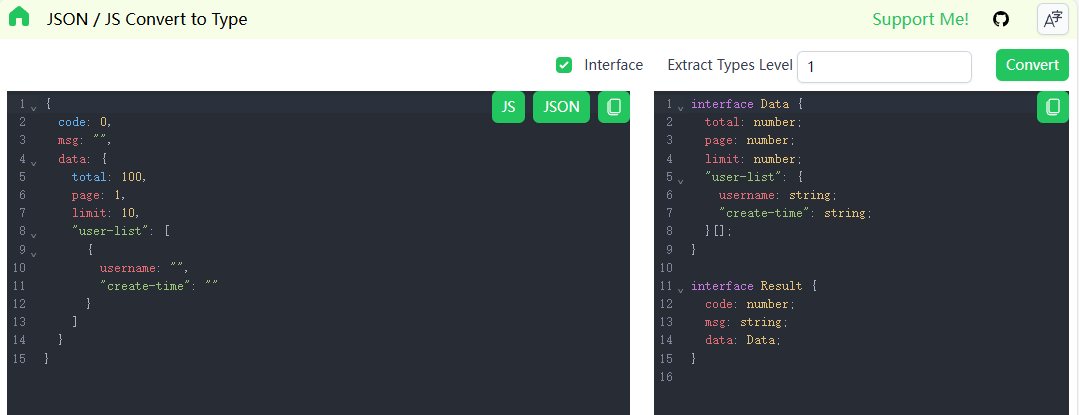
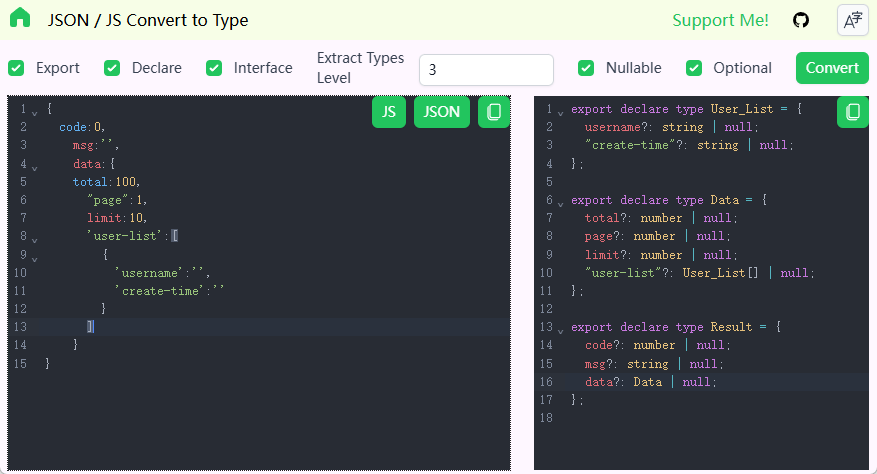
add export optional

diff --git a/nuxt/pages/json/type.vue b/nuxt/pages/json/type.vue
@@ -2,12 +2,15 @@
     <div class="mx-2 flex flex-col h-full">
         <div class="flex items-center my-2 justify-end">
             <div class="flex items-center gap-6">
+                <UCheckbox class="cursor-pointer" v-model="options.addExport" label="Export"></UCheckbox>
+                <UCheckbox class="cursor-pointer" v-model="options.addDeclare" label="Declare"></UCheckbox>
                 <UCheckbox class="cursor-pointer" v-model="options.useInterface" label="Interface"></UCheckbox>
 
                 <UFormGroup :label="t('extract')" class="flex items-center">
                     <UInput type="number" class="ml-1" v-model="options.extract" :min="0"></UInput>
                 </UFormGroup>
-
+                <UCheckbox class="cursor-pointer" v-model="options.nullable" label="Nullable"></UCheckbox>
+                <UCheckbox class="cursor-pointer" v-model="options.optional" label="Optional"></UCheckbox>
                 <UButton @click="handleClick">{{ t("convert") }}</UButton>
             </div>
         </div>
@@ -74,6 +77,10 @@ onMounted(() => {
 const options = reactive({
     useInterface: false,
     extract: 0,
+    addExport:true,
+    addDeclare:false,
+    optional:false,
+    nullable:false,
 })
 onMounted(() => {
     const config = soon_local.json2type.get()

diff --git a/nuxt/pages/test.vue b/nuxt/pages/test.vue
@@ -1,12 +1,12 @@
 <template>
   <div>
-    <div class="text-lg text-orange-600">Title</div>
+    <!-- <div class="text-lg text-orange-600">Title</div>
     <UAlert
       description="You can add components to your app using the cli."
       title="Heads up!"
     />
 
-    <Shiki lang="js"  />
+    <Shiki lang="js"  /> -->
  
   </div>
 </template>

diff --git a/nuxt/app.config.ts b/nuxt/app.config.ts
@@ -4,6 +4,9 @@ export default defineAppConfig({
         // Show toasts at the top right of the screen
         // position: 'top-0 bottom-[unset]'
       }
+    },
+    icon:{
+      provider:'server'
     }
   })
   
